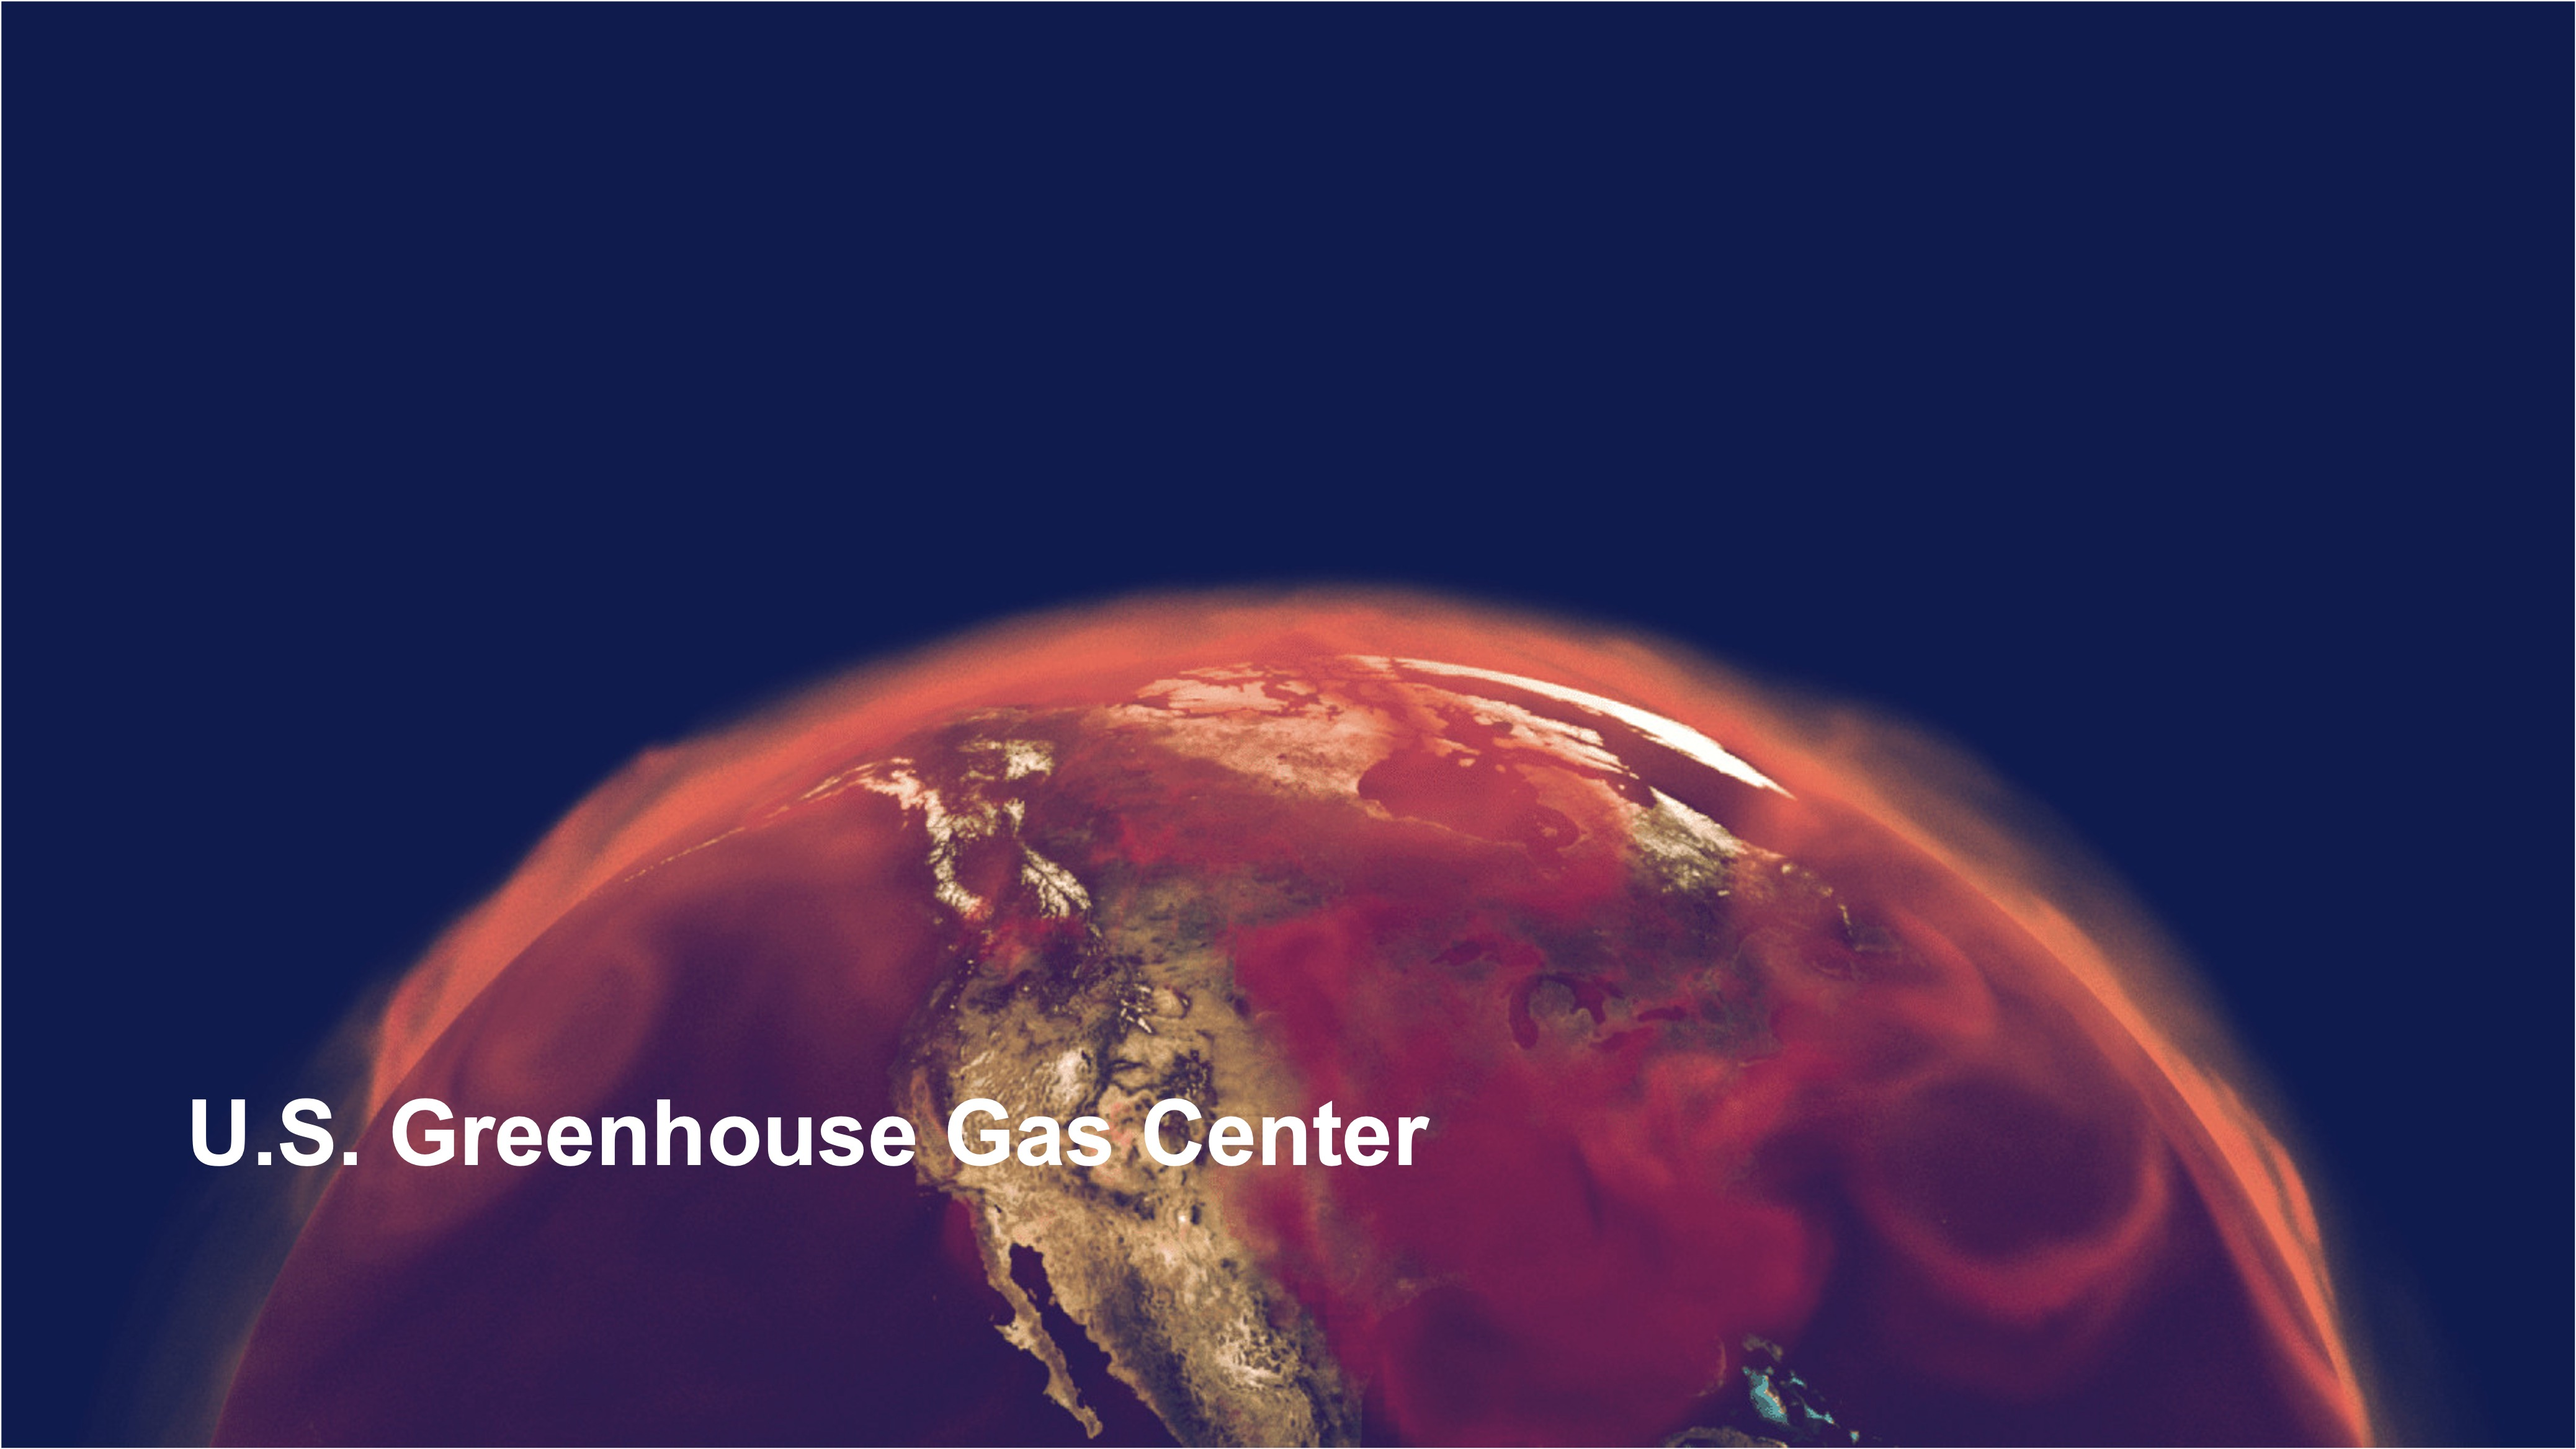
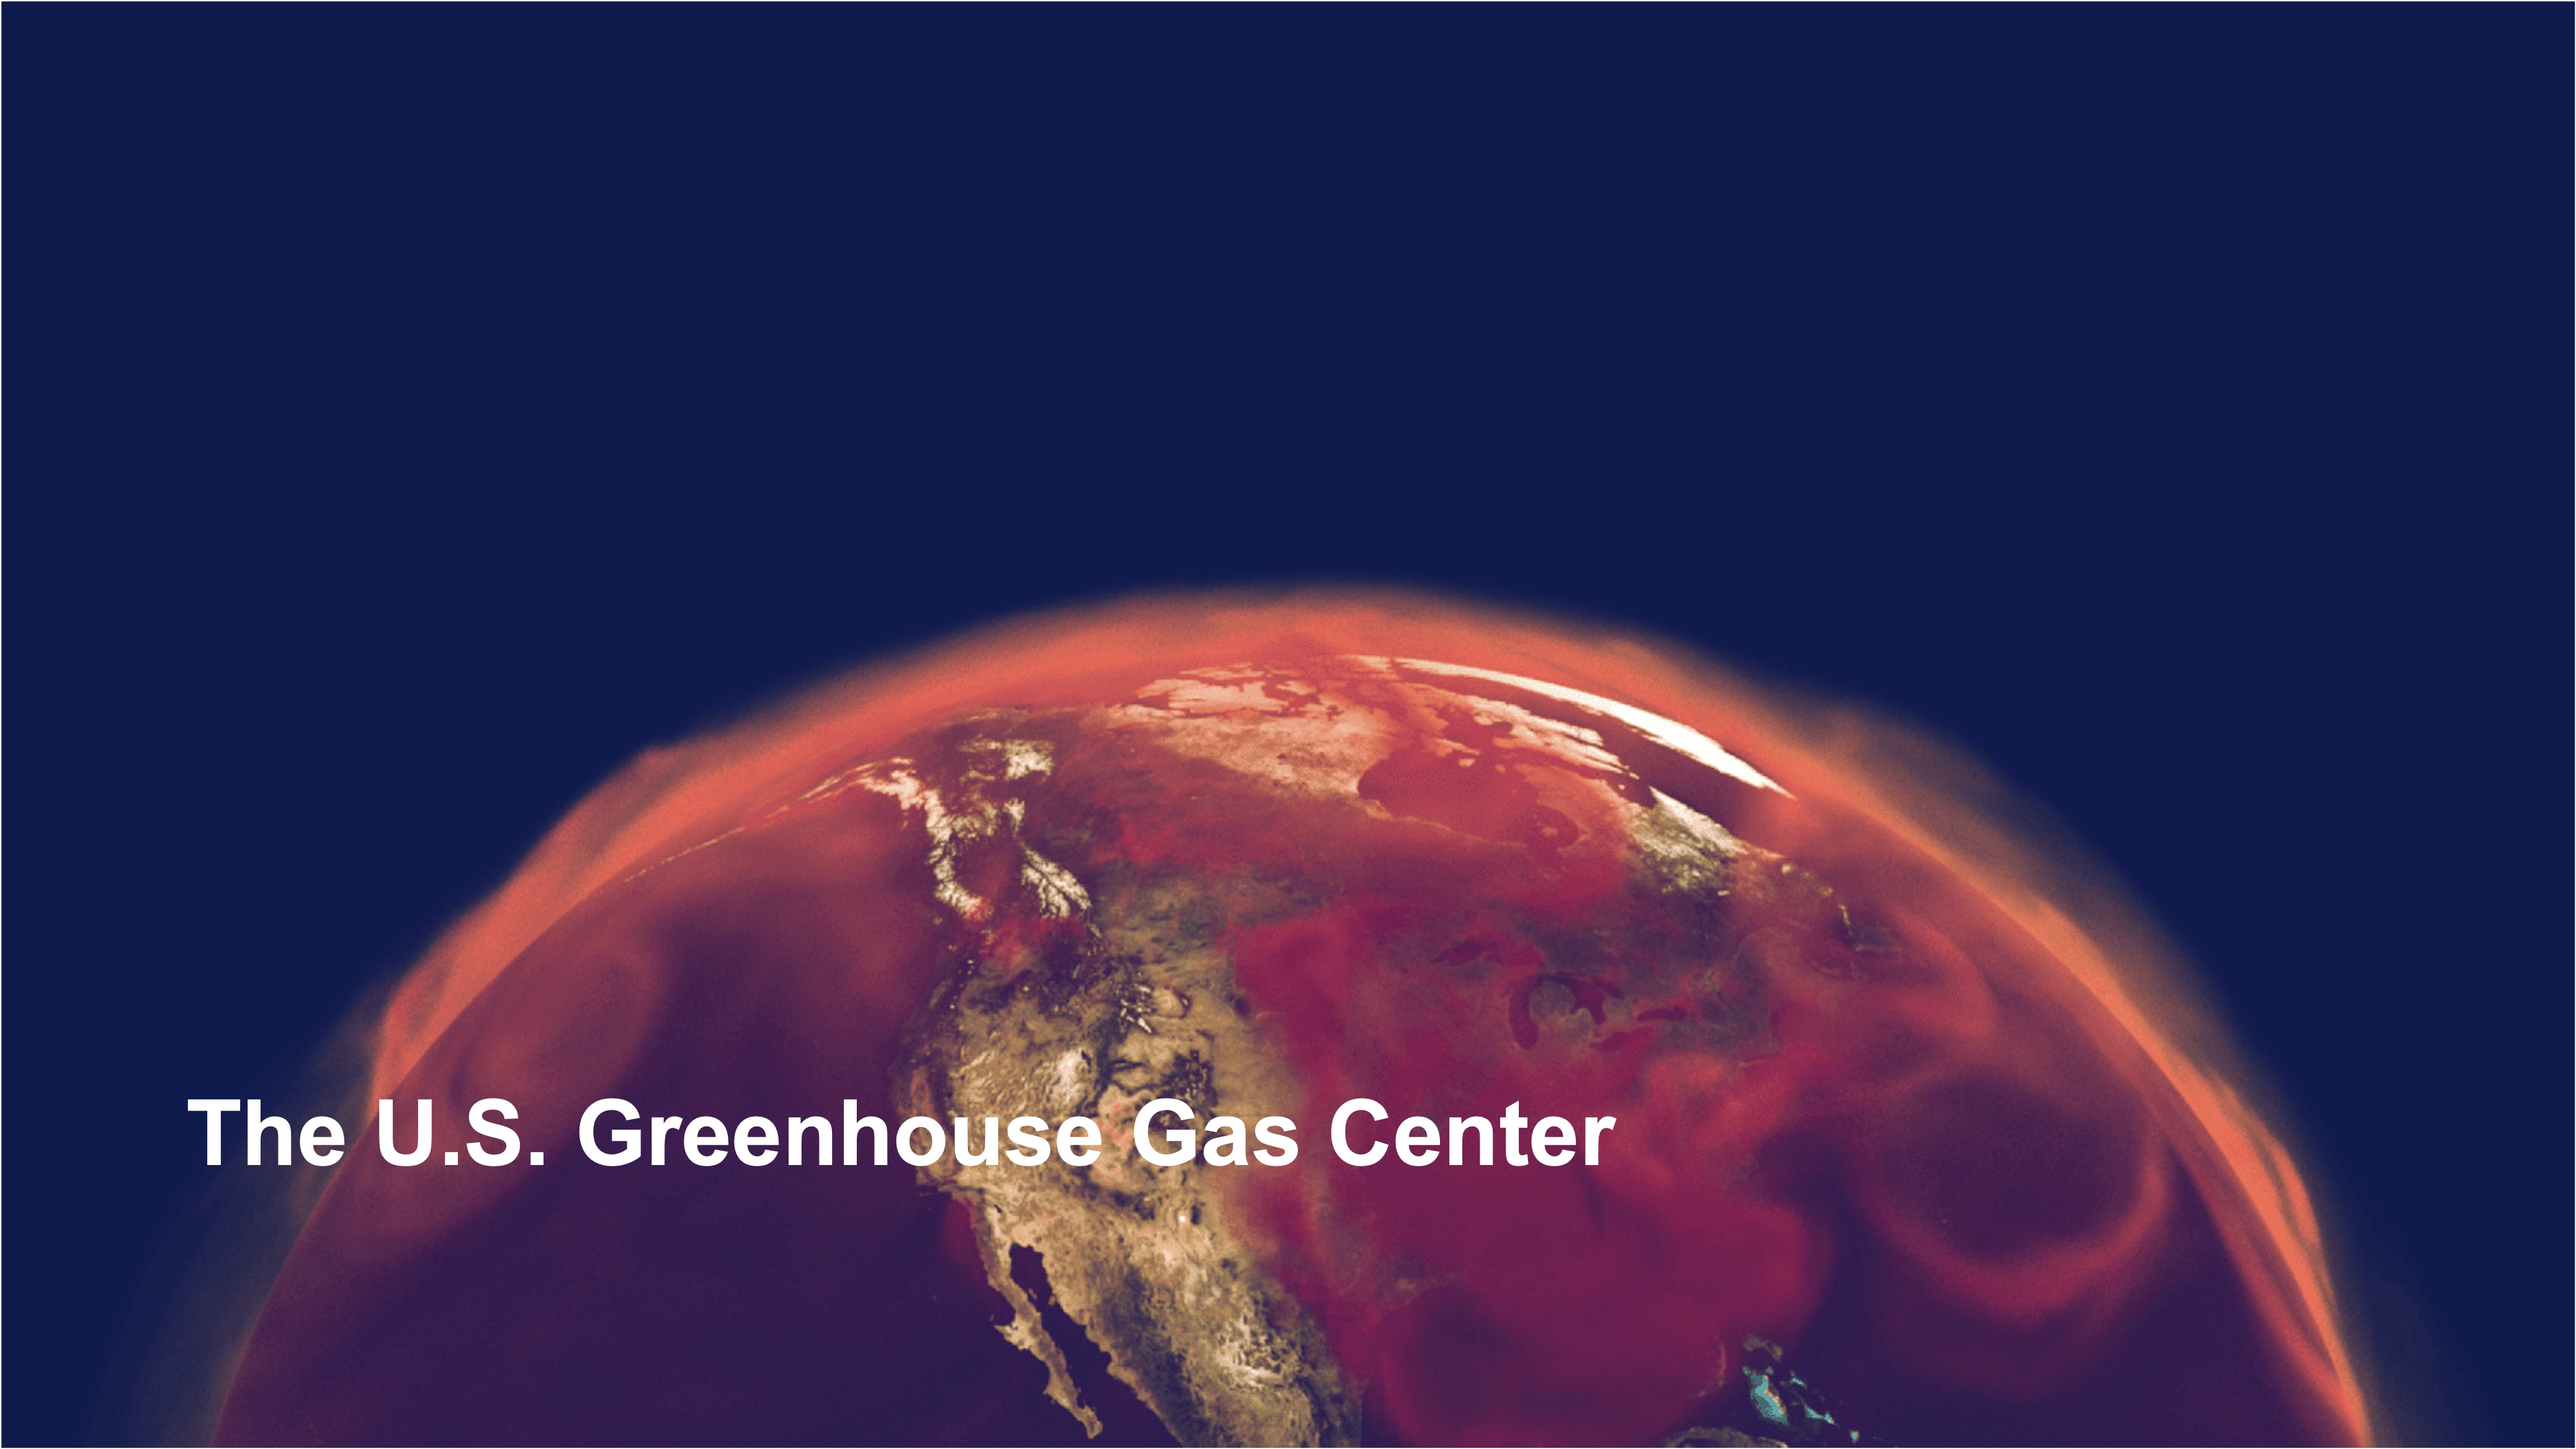
update GHG image

Changed region(s): [[0.0621, 0.7497, 0.6214, 0.8122]]

diff --git a/overrides/components/visit-ghg.tsx b/overrides/components/visit-ghg.tsx
@@ -64,7 +64,7 @@ export default function VisitGHG({
           <InfoImageContent>
             <div>
               <StyledVarHeading size="small" as="h2">
-                U.S. Greenhouse Gas Center
+                The U.S. Greenhouse Gas Center
               </StyledVarHeading>
               <Button
                 forwardedAs="a"
